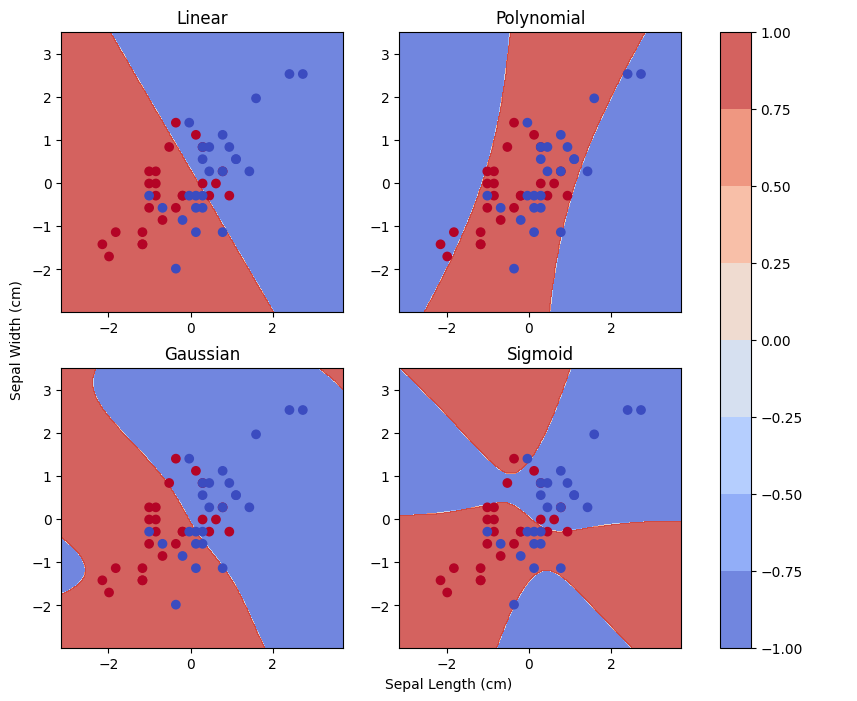
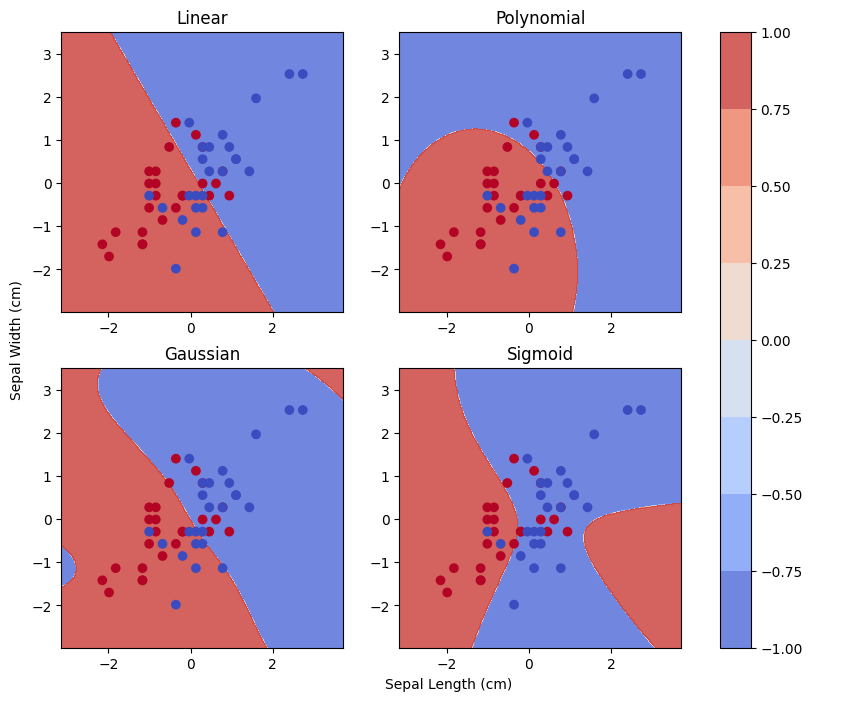
Added ensemble learning

diff --git a/src/test_SVM.py b/src/test_SVM.py
@@ -11,6 +11,8 @@ import plot_Data
 test_all = False # If true, predicts using all dataset samples, not just testing samples.
 normalize = False # If true, all data is normalized
 standardize = True # If true, all data is standardized
+ensemble = False # If true, enable ensemble learning
+all_features = False # If true, train and test on all features
 
 def main():
     # Re-split data
@@ -35,8 +37,8 @@ def main():
     # Reduce training and testing data to sepal length and width
     c1 = 0 # for best results, use col 2. for worst results, use col 0.
     c2 = 1 # for best results, use col 3. for worst results, use col 1.
-    [x_train, x_test] = plot_Data.reduceDataset2D(x_train, x_test, col1=c1, col2=c2)
-    [x_all, x_all] = plot_Data.reduceDataset2D(x_all, x_all, col1=c1, col2=c2)
+    #[x_train, x_test] = plot_Data.reduceDataset2D(x_train, x_test, col1=c1, col2=c2)
+    #[x_all, x_all] = plot_Data.reduceDataset2D(x_all, x_all, col1=c1, col2=c2)
 
     # Normalize the data
     if normalize:
@@ -50,11 +52,11 @@ def main():
         x_all = preprocessing.scale(x_all)
 
     # Train all SVMs
-    C = 1.0
+    C = 1
     sigma = 1.0
     m = 2
     c = 1
-    gamma = 1 / len(x_test[1,:]) # 1 / number of features
+    gamma = 1 / len(x_test[0,:]) # 1 / number of features
  
     SVMs = []
     kernels = ["linear", "polynomial", "gaussian", "sigmoid"]
@@ -68,10 +70,7 @@ def main():
         print(str.format("{0} trained in {1:.3f} seconds", kernel_type, end-start))
 
     # Test the SVMs
-    fig, axes = plt.subplots(2, 2, figsize=(10,8))
-    fig.add_subplot(111, frameon=False)
-    i = 0
-    for ax in axes.flat:
+    if all_features:
         if test_all:
             x = x_all
             y = y_all
@@ -79,42 +78,103 @@ def main():
             x = x_test
             y = y_test
 
-        # Predict
-        svm = SVMs[i]
-        y_pred = svm.testSVM(x)
+        for i in range(len(SVMs)):
+            # Predict
+            svm = SVMs[i]
+            y_pred = svm.testSVM(x)
+            print(str.format("{0} Accuracy: {1:.3f}", kernels[i], accuracy_score(y, y_pred)))
 
-        # Accuracy
-        print(str.format("{0} Accuracy: {1:.3f}", kernels[i], accuracy_score(y, y_pred)))
+    elif ensemble:
+        if test_all:
+            x = x_all
+            y = y_all
+        else:
+            x = x_test
+            y = y_test
 
-        # Plot
+        # For contour
         h = 0.02
         x_min, x_max = x[:, 0].min() - 1, x[:, 0].max() + 1
         y_min, y_max = x[:, 1].min() - 1, x[:, 1].max() + 1
         xx, yy = np.meshgrid(np.arange(x_min, x_max, h),
                             np.arange(y_min, y_max, h))
 
-        # Put the result into a color plot
-        Z = svm.testSVM(np.c_[xx.ravel(), yy.ravel()])
+        # Holds predictions across all SVMs
+        y_pred = np.zeros((len(x),len(SVMs))) # Samples x SVMs
+        Z = np.zeros((len(np.c_[xx.ravel(), yy.ravel()]),len(SVMs)))
+        for i in range(len(SVMs)):
+            # Predict
+            svm = SVMs[i]
+            y_pred[:,i] = np.transpose(svm.testSVM(x))
+
+            # Put the result into a color plot
+            Z[:,i] = np.transpose(svm.testSVM(np.c_[xx.ravel(), yy.ravel()]))
+
+        # Voting system
+        Z = np.sign(np.sum(Z,axis=1))
+        y_pred = np.sign(np.sum(y_pred,axis=1))
+        print(str.format("{0} Accuracy: {1:.3f}", "Ensemble", accuracy_score(y, y_pred)))
         
         # Put the result into a color plot
         Z = Z.reshape(xx.shape)
-        if(i==0):
-            img = ax.contourf(xx, yy, Z, cmap=plt.cm.coolwarm, alpha=0.8)
-        else:
-            ax.contourf(xx, yy, Z, cmap=plt.cm.coolwarm, alpha=0.8)
+        plt.contourf(xx, yy, Z, cmap=plt.cm.coolwarm, alpha=0.8)
+        plt.colorbar()
 
         # Plot also the training points
-        ax.scatter(x[:, 0], x[:, 1], c=y, cmap=plt.cm.coolwarm)
-        ax.set_title(kernels[i].capitalize())
+        plt.scatter(x[:, 0], x[:, 1], c=y, cmap=plt.cm.coolwarm)
+        plt.title("Ensemble Learning")
+        plt.xlabel(features[c1] + " (cm)")
+        plt.ylabel(features[c2] + " (cm)")
+        plt.savefig(str.format("./graphs/{0}_{1}_ensemble.png",features[c1],features[c2]),bbox_inches='tight')
+        plt.clf()
+    else:
+        fig, axes = plt.subplots(2, 2, figsize=(10,8))
+        fig.add_subplot(111, frameon=False)
+        i = 0
+        for ax in axes.flat:
+            if test_all:
+                x = x_all
+                y = y_all
+            else:
+                x = x_test
+                y = y_test
 
-        # Increment i
-        i += 1
-    fig.colorbar(img, ax=axes.ravel().tolist())
-    plt.tick_params(labelcolor='none', which='both', top=False, bottom=False, left=False, right=False)
-    plt.xlabel(features[c1] + " (cm)")
-    plt.ylabel(features[c2] + " (cm)")
-    fig.savefig(str.format("./graphs/{0}_{1}_test.png",features[c1],features[c2]),bbox_inches='tight')
-    plt.clf()
+            # Predict
+            svm = SVMs[i]
+            y_pred = svm.testSVM(x)
+
+            # Accuracy
+            print(str.format("{0} Accuracy: {1:.3f}", kernels[i], accuracy_score(y, y_pred)))
+
+            # Plot
+            h = 0.02
+            x_min, x_max = x[:, 0].min() - 1, x[:, 0].max() + 1
+            y_min, y_max = x[:, 1].min() - 1, x[:, 1].max() + 1
+            xx, yy = np.meshgrid(np.arange(x_min, x_max, h),
+                                np.arange(y_min, y_max, h))
+
+            # Put the result into a color plot
+            Z = svm.testSVM(np.c_[xx.ravel(), yy.ravel()])
+            
+            # Put the result into a color plot
+            Z = Z.reshape(xx.shape)
+            if(i==0):
+                img = ax.contourf(xx, yy, Z, cmap=plt.cm.coolwarm, alpha=0.8)
+            else:
+                ax.contourf(xx, yy, Z, cmap=plt.cm.coolwarm, alpha=0.8)
+
+            # Plot also the training points
+            ax.scatter(x[:, 0], x[:, 1], c=y, cmap=plt.cm.coolwarm)
+            ax.set_title(kernels[i].capitalize())
+
+            # Increment i
+            i += 1
+        fig.colorbar(img, ax=axes.ravel().tolist())
+        plt.tick_params(labelcolor='none', which='both', top=False, bottom=False, left=False, right=False)
+        plt.xlabel(features[c1] + " (cm)")
+        plt.ylabel(features[c2] + " (cm)")
+        fig.savefig(str.format("./graphs/{0}_{1}_test.png",features[c1],features[c2]),bbox_inches='tight')
+        plt.clf()
 
 if __name__ == "__main__":
     main()
